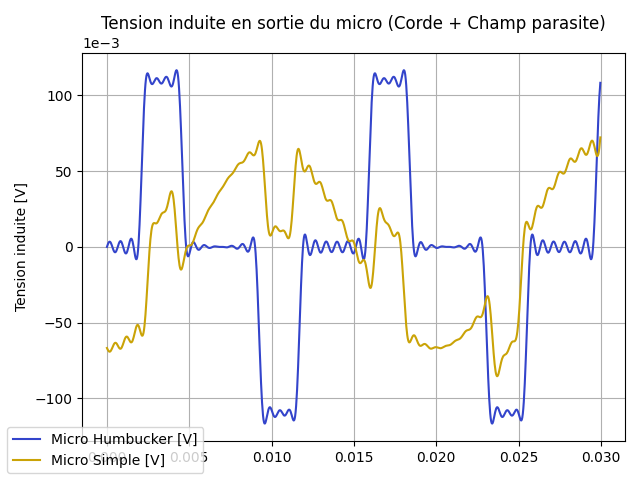
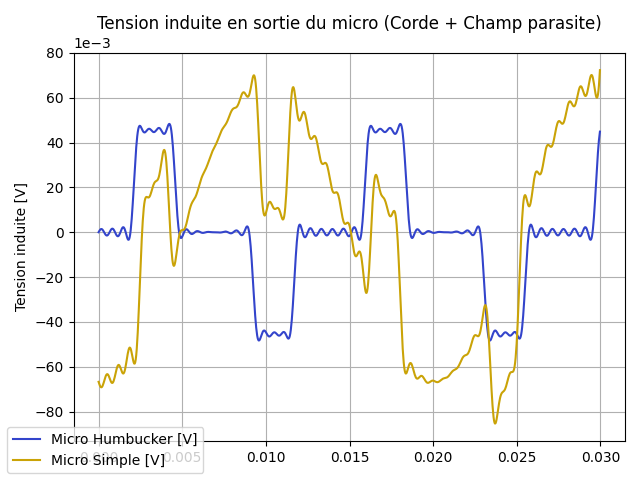
Code modified

diff --git a/Python/Code/Modele_fem.py b/Python/Code/Modele_fem.py
@@ -39,9 +39,9 @@ RCC_s = 8.92*10**3      #A verifier ???
 lmoy_s = 0.147          #A verifier ???
 N_s = int(RCC_s*np.pi*d**2 / (4*rho*lmoy_s))
 #* Parametre Micro Humbucker
-RCC_h = None             #A verifier ???
-lmoy_h = None            #A verifier ???
-N_h = None               #A verifier ???
+RCC_h = 8.46*10**3             #A verifier ???
+lmoy_h = lmoy_s            #A verifier ???
+N_h = int(RCC_h*np.pi*d**2 / (8*rho*lmoy_h)) 
 #* Parametre Champ parasite
 Nbob = 150              #A verifier ???
 R = 0.05                #A verifier ???
@@ -192,12 +192,12 @@ if __name__ == "__main__":
     temps = np.linspace(0, Te, Ne, endpoint=False)
     corde = entree(Na, xm, temps)
     fem_s = fem_singlecoil(Na, N_s, xm, temps)
-    fem_h = fem_humbucker(Na, N_s, x1, x2, temps)
+    fem_h = fem_humbucker(Na, N_h, x1, x2, temps)
 
     print("\nCalcul des tensions en reponse au champ parasite...")
     champ_par = B(0, fB, temps)
     fem_s_par = fem_par_s(N_s, xm, fB, temps)
-    fem_h_par = fem_par_h(N_s, x1, x2, fB, temps)
+    fem_h_par = fem_par_h(N_h, x1, x2, fB, temps)
 
     print("\nCalcul des tensions totales...")
     fem_s_tot = fem_s + fem_s_par
